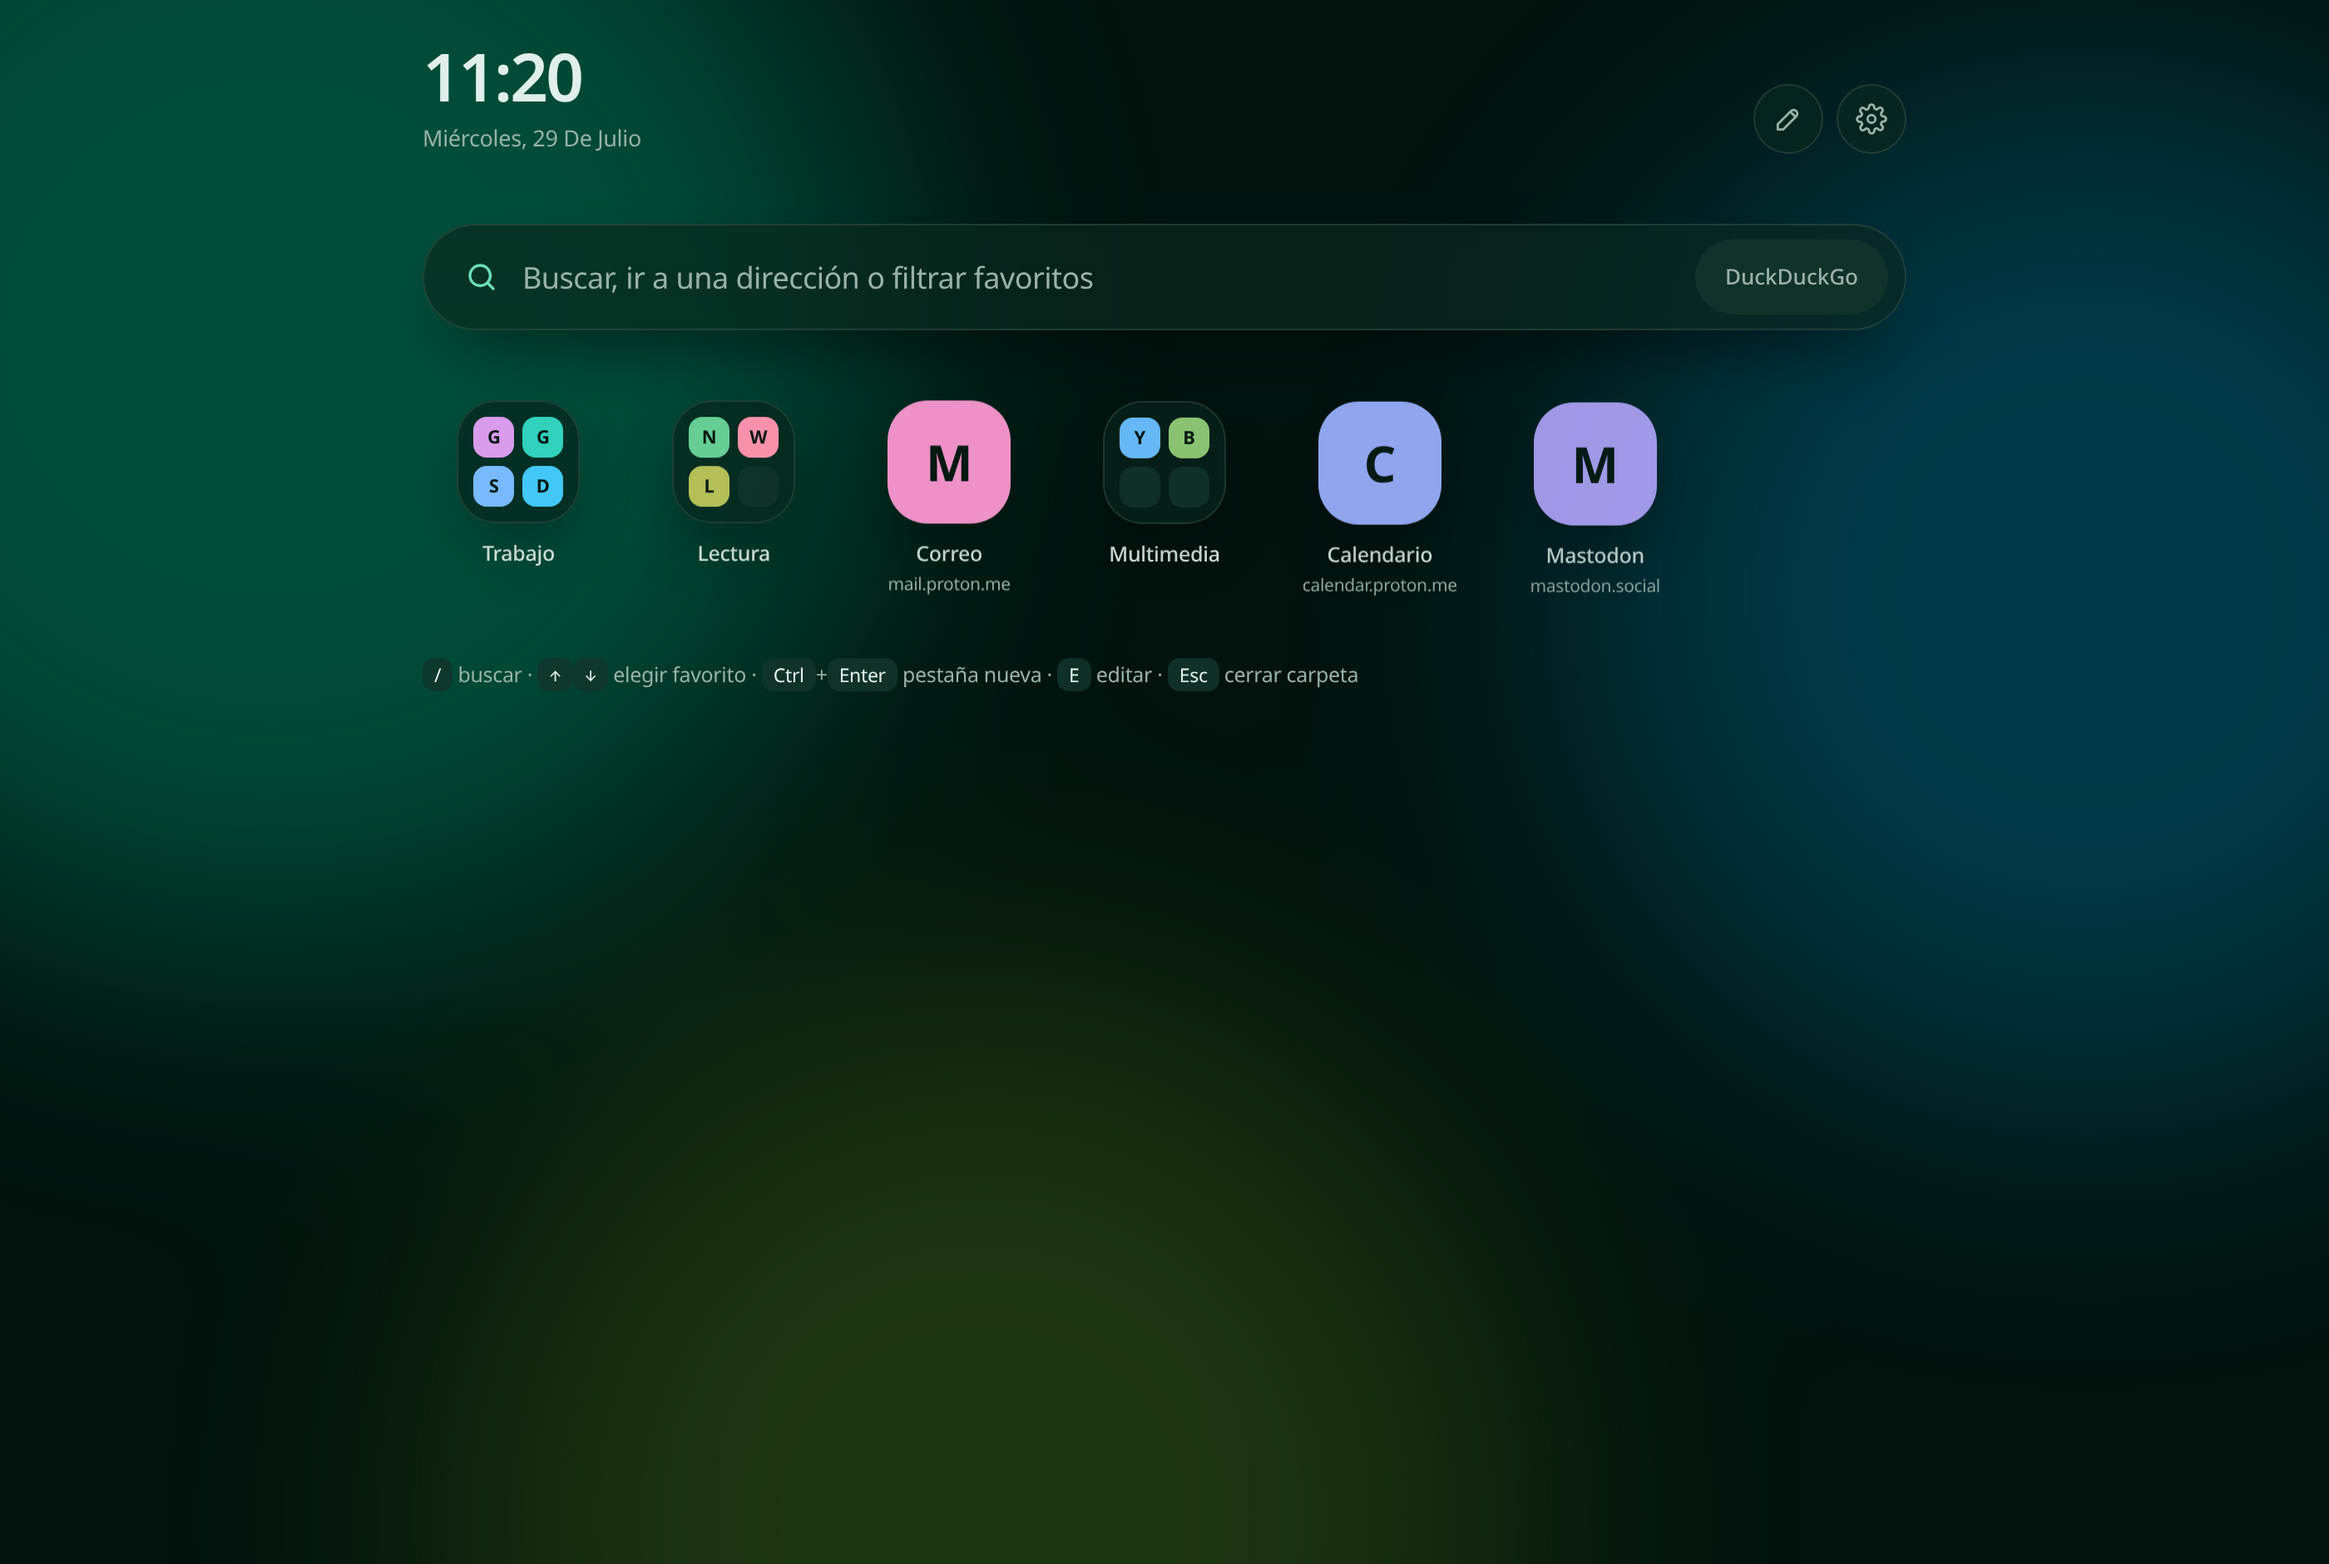
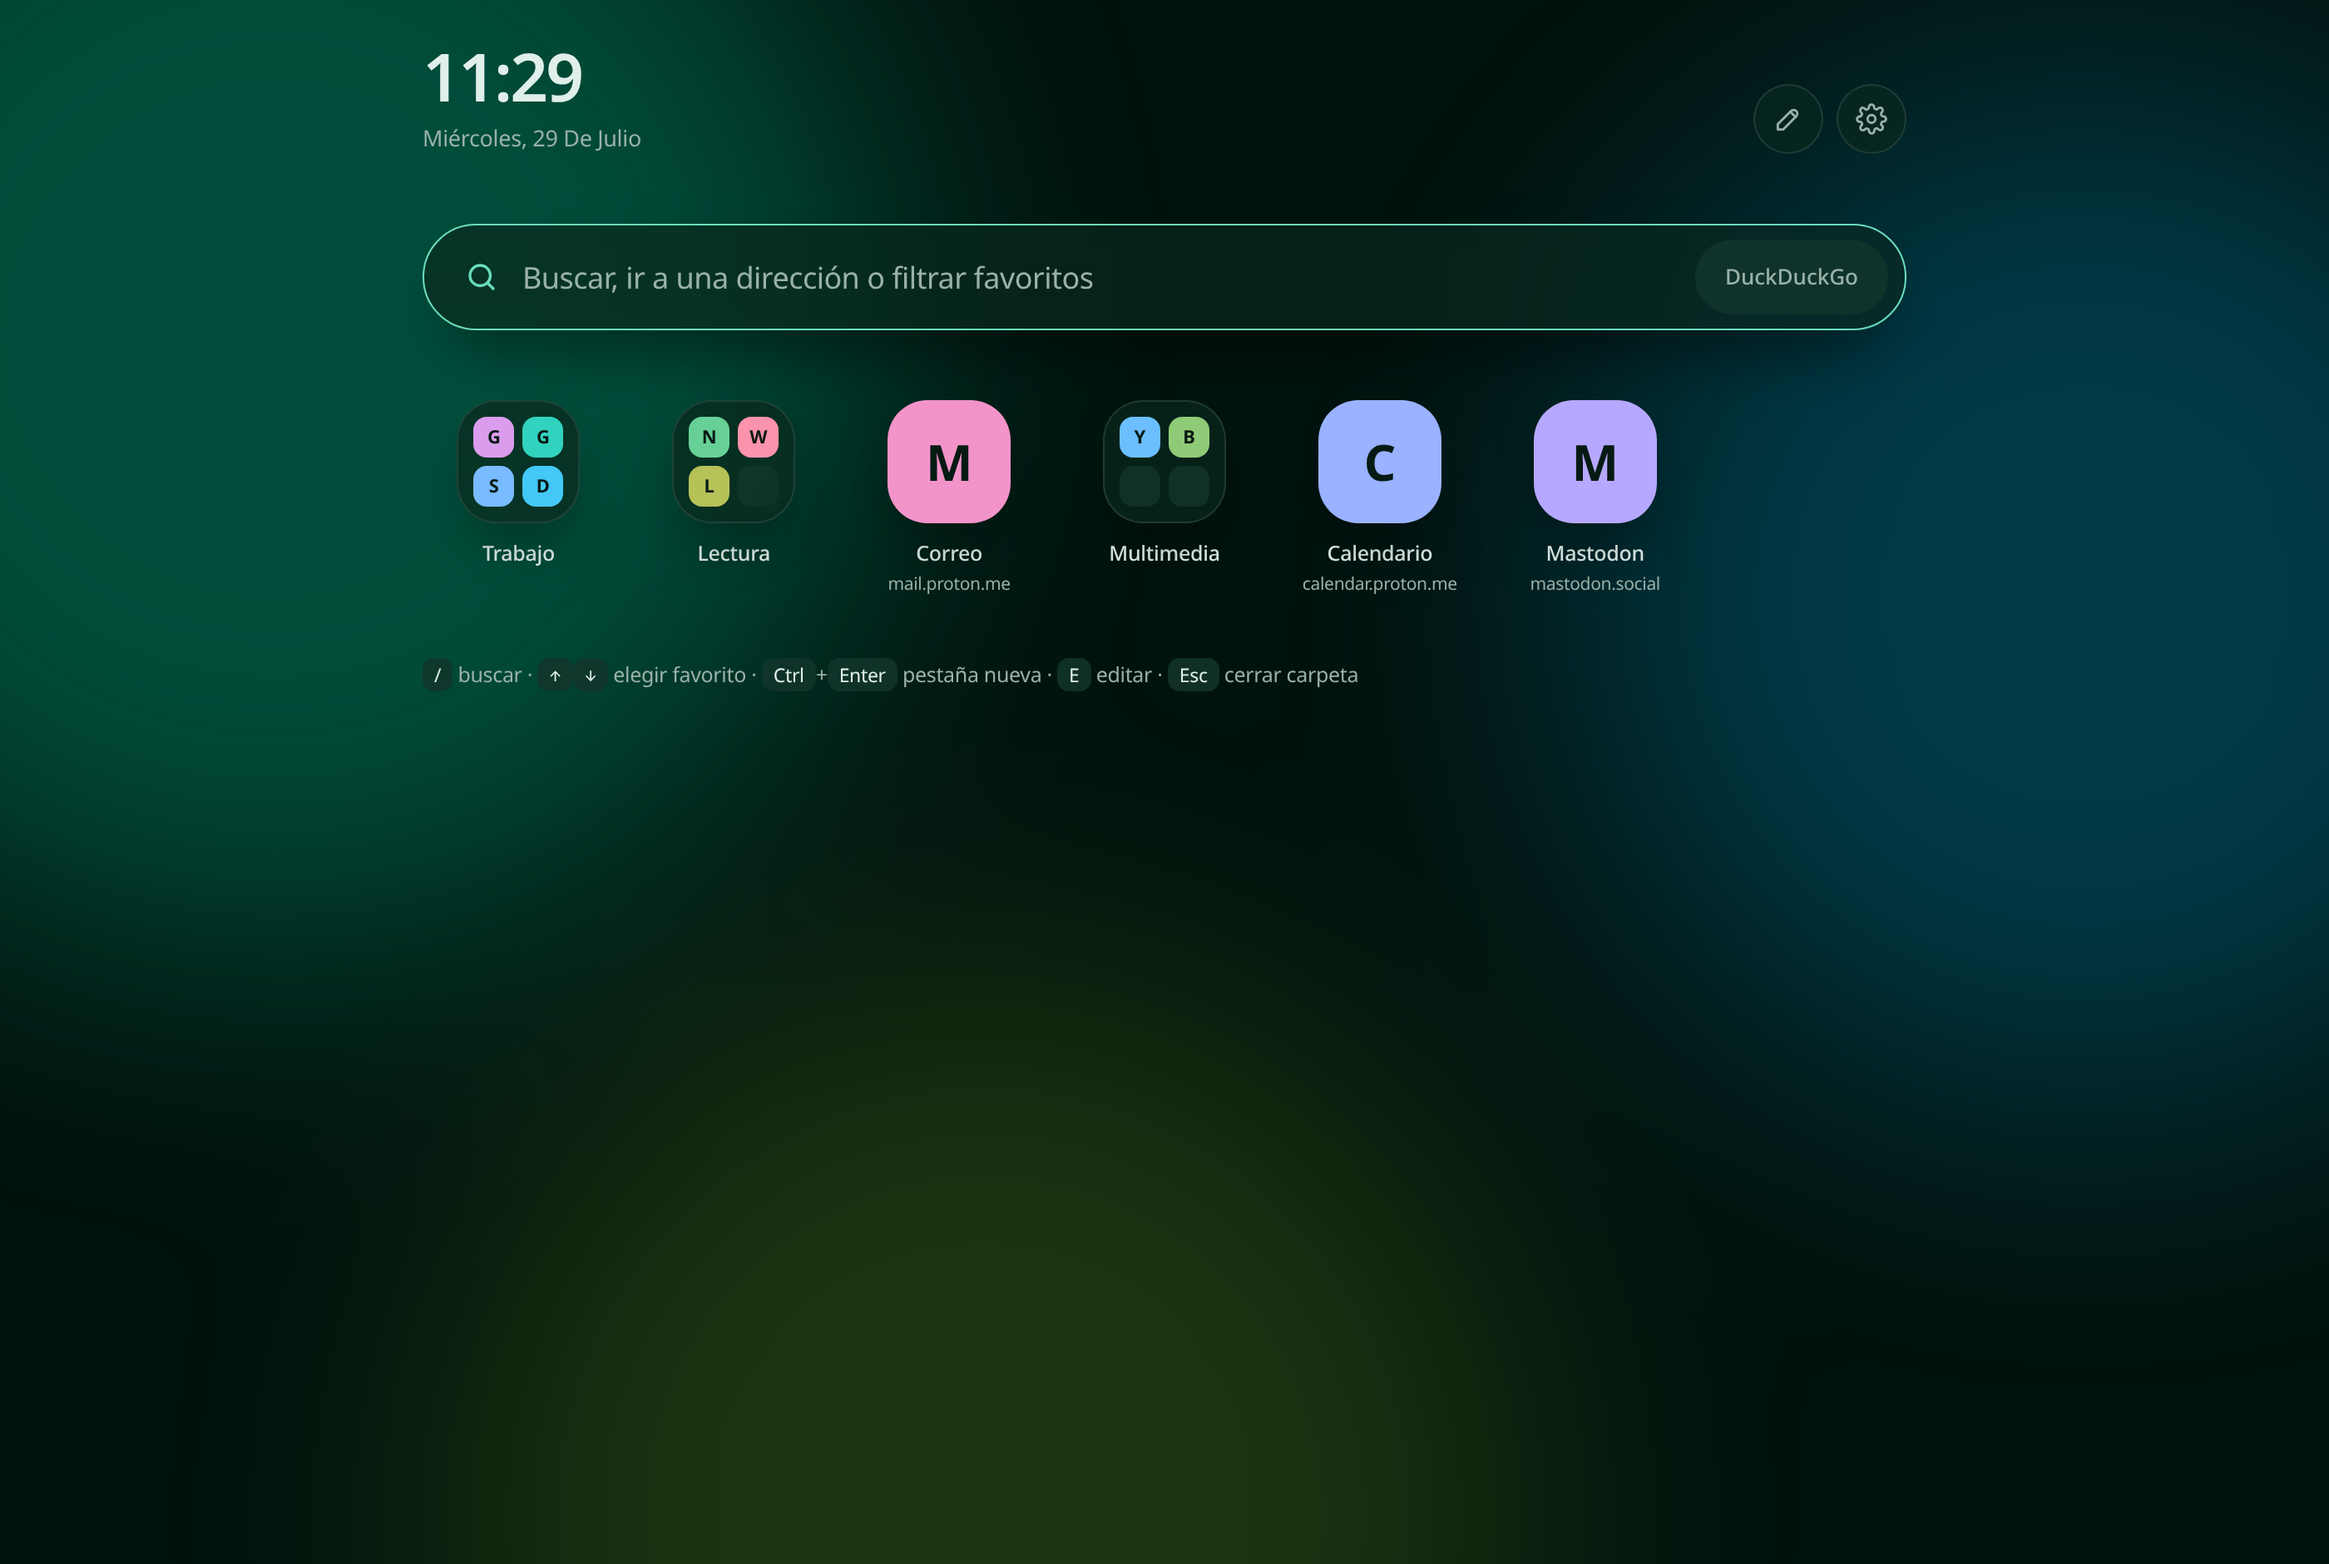
Corrige el modo claro de Fluent, que heredaba los valores del oscuro

Changed region(s): [[0.6525, 0.2468, 0.7146, 0.4011], [0.5593, 0.3702, 0.5904, 0.4011], [0.2175, 0.0309, 0.2486, 0.0617]]

diff --git a/index.html b/index.html
@@ -772,130 +772,153 @@
   html[data-style="minimo"] label input[type="text"],
   html[data-style="minimo"] label select { border-radius: 3px; background: transparent; }
 
-  /* ---------- FLUENT: Windows 11. Capas opacas, bordes asimétricos y acento ----------
-     Claves de Fluent Design: fondo Mica muy desaturado, tarjetas sólidas apiladas,
-     radios de 8 px en superficies y 4 px en controles, y el borde inferior más oscuro
-     que el resto (en oscuro, el superior más claro), que es lo que da el relieve sutil
-     de los controles de WinUI. El azul de Windows (#0078D4) sale del tono 258. */
+  /* ---------- FLUENT: el menú Inicio de Windows 11 ----------
+     Lo que hace reconocible a Win11 no son los detalles finos, sino tres cosas muy visibles:
+     el panel flotante acrílico con esquinas redondeadas y sombra marcada, el buscador en
+     forma de píldora arriba, y la rejilla de iconos con degradado suave. El azul de
+     Windows (#0078D4) sale del tono 258. */
   html[data-style="fluent"] {
     --font: "Segoe UI Variable Text", "Segoe UI", "Selawik", "Inter",
             "Noto Sans", system-ui, sans-serif;
     --font-display: "Segoe UI Variable Display", var(--font);
-    --tile: 64px;
-    --r-face: 8px; --r-mini: 3px; --r-app: 8px; --r-panel: 8px;
-    --field-h: 40px; --r-field: 8px; --r-chip: 4px;
-    --blur-1: 30px; --blur-2: 40px; --blur-3: 60px; --sat: 118%;
-    --mesh-op: 0.16;
-    --grid-gap: 18px 8px;
+    --tile: 62px;
+    --r-face: 10px; --r-mini: 3px; --r-app: 10px; --r-panel: 12px;
+    --field-h: 42px; --r-field: 999px; --r-chip: 999px;
+    --blur-1: 40px; --blur-2: 50px; --blur-3: 60px; --sat: 160%;
+    --mesh-op: 0.55;
+    --grid-gap: 16px 6px;
     --label-fs: 12px; --label-tt: none; --label-ls: 0;
     --glass: 0 0 0 0 transparent;
 
-    --bg:        #202020;
-    --bg-2:      #2B2B2B;
-    --surface:   #2D2D2D;
-    --surface-2: #333333;
-    --outline:   rgba(255, 255, 255, 0.075);
-    --borde-alto: rgba(255, 255, 255, 0.093);
+    --bg:        #1C1C1C;
+    --bg-2:      #2C2C2C;
+    --surface:   rgba(44, 44, 44, 0.78);
+    --surface-2: rgba(58, 58, 58, 0.86);
+    --outline:   rgba(255, 255, 255, 0.09);
     --text:      #FFFFFF;
-    --muted:     rgba(255, 255, 255, 0.606);
+    --muted:     rgba(255, 255, 255, 0.62);
     --primary:   oklch(0.78 0.125 var(--hue));
     --on-primary: #1B1B1B;
-    --shadow:    0 8px 16px rgba(0, 0, 0, 0.28);
-    --scrim:     rgba(18, 18, 18, 0.55);
-    --capa:      rgba(255, 255, 255, 0.061);
-    --capa-2:    rgba(255, 255, 255, 0.084);
+    --shadow:    0 16px 40px rgba(0, 0, 0, 0.5);
+    --scrim:     rgba(16, 16, 16, 0.5);
+    --capa:      rgba(255, 255, 255, 0.07);
+    --capa-2:    rgba(255, 255, 255, 0.11);
   }
   html[data-style="fluent"][data-mode="light"] {
+    /* Mica en claro es casi neutro: gris muy claro con un tinte apenas perceptible.
+       Heredar el 0.55 del modo oscuro lavaba la página de pasteles. */
+    --mesh-op: 0.17;
+    --sat: 122%;
     --bg:        #F3F3F3;
-    --bg-2:      #FBFBFB;
-    --surface:   #FBFBFB;
-    --surface-2: #FFFFFF;
-    --outline:   rgba(0, 0, 0, 0.058);
-    --borde-alto: rgba(0, 0, 0, 0.092);
+    --bg-2:      #FFFFFF;
+    --surface:   rgba(251, 251, 251, 0.90);
+    --surface-2: rgba(255, 255, 255, 0.95);
+    --outline:   rgba(0, 0, 0, 0.07);
     --text:      #1B1B1B;
     --muted:     #5D5D5D;
     --primary:   oklch(0.55 0.155 var(--hue));
     --on-primary: #FFFFFF;
-    --shadow:    0 8px 16px rgba(0, 0, 0, 0.10);
-    --scrim:     rgba(243, 243, 243, 0.6);
-    --capa:      rgba(0, 0, 0, 0.037);
-    --capa-2:    rgba(0, 0, 0, 0.060);
+    --shadow:    0 16px 36px rgba(0, 0, 0, 0.16);
+    --scrim:     rgba(233, 235, 238, 0.55);
+    --capa:      rgba(0, 0, 0, 0.045);
+    --capa-2:    rgba(0, 0, 0, 0.075);
   }
 
-  /* Mica: el color del fondo apenas se intuye, muy desaturado */
-  html[data-style="fluent"] .blob { filter: saturate(22%) brightness(1.05); }
-  html[data-style="fluent"] .now .h { font-weight: 600; font-size: 36px; letter-spacing: -0.02em; }
+  /* el contenido entero flota como el menú Inicio: acrílico, redondeado y con sombra */
+  html[data-style="fluent"] .wrap {
+    max-width: 720px;
+    margin: 40px auto;
+    padding: 22px 26px 26px;
+    background: var(--surface);
+    -webkit-backdrop-filter: blur(var(--blur-3)) saturate(var(--sat));
+    backdrop-filter: blur(var(--blur-3)) saturate(var(--sat));
+    border: 1px solid var(--outline);
+    border-radius: 14px;
+    box-shadow: var(--shadow);
+  }
+  @media (max-width: 620px) {
+    html[data-style="fluent"] .wrap {
+      margin: 0; border-radius: 0; border: 0; box-shadow: none; background: transparent;
+      -webkit-backdrop-filter: none; backdrop-filter: none;
+    }
+  }
+  /* el fondo se ve de verdad detrás del acrílico */
+  html[data-style="fluent"] .blob { filter: saturate(85%); }
+  html[data-style="fluent"][data-mode="light"] .blob { filter: saturate(30%) brightness(1.12); }
+  html[data-style="fluent"] .now .h { font-weight: 600; font-size: 32px; letter-spacing: -0.022em; }
   html[data-style="fluent"] .now .d { font-size: 12px; letter-spacing: 0; }
 
-  /* TextBox de WinUI: capa sólida y filete inferior de acento al enfocar */
+  /* buscador en píldora, como el del menú Inicio */
   html[data-style="fluent"] .field {
-    background: var(--surface);
+    background: var(--bg-2);
     border: 1px solid var(--outline);
-    border-bottom: 1px solid var(--borde-alto);
     box-shadow: none;
-    padding-left: 14px;
+    padding-left: 18px;
   }
   html[data-style="fluent"] .field:focus-within {
-    border-color: var(--outline);
-    border-bottom: 2px solid var(--primary);
+    border-color: var(--primary);
+    box-shadow: 0 0 0 1px var(--primary);
     transform: none;
   }
   html[data-style="fluent"] #q { font-size: 14.5px; }
 
-  /* botones: borde asimétrico, la firma visual de Fluent */
   html[data-style="fluent"] .icon-btn,
   html[data-style="fluent"] .engine-chip,
   html[data-style="fluent"] .mini-btn,
   html[data-style="fluent"] .dialog-actions button {
-    background: var(--surface);
+    background: var(--capa);
     border: 1px solid var(--outline);
-    border-bottom-color: var(--borde-alto);
     box-shadow: none;
   }
-  html[data-style="fluent"] .icon-btn { width: 36px; height: 36px; border-radius: 5px; }
-  html[data-style="fluent"] .icon-btn svg { width: 17px; height: 17px; }
+  html[data-style="fluent"] .icon-btn { width: 34px; height: 34px; border-radius: 6px; }
+  html[data-style="fluent"] .icon-btn svg { width: 16px; height: 16px; }
   html[data-style="fluent"] .icon-btn:hover,
   html[data-style="fluent"] .engine-chip:hover,
   html[data-style="fluent"] .mini-btn:hover,
   html[data-style="fluent"] .dialog-actions button:hover {
-    background: var(--surface-2); color: var(--text); transform: none;
+    background: var(--capa-2); color: var(--text); transform: none;
   }
-  html[data-style="fluent"] .icon-btn:active { transform: none; opacity: .72; }
+  html[data-style="fluent"] .icon-btn:active { transform: none; opacity: .7; }
   html[data-style="fluent"] .icon-btn.on,
   html[data-style="fluent"] .dialog-actions .primary {
     background: var(--primary); border-color: transparent; color: var(--on-primary);
   }
 
-  /* rejilla del menú Inicio: relleno suave de 4 px bajo icono y etiqueta */
-  html[data-style="fluent"] .tile {
-    padding: 8px 4px 6px;
-    border-radius: 4px;
-    transition: background .1s linear, transform .16s var(--ease);
-  }
+  /* rejilla de anclados: relleno de 5 px al pasar por encima */
+  html[data-style="fluent"] .tile { padding: 8px 4px 6px; border-radius: 5px;
+                                    transition: background .1s linear; }
   html[data-style="fluent"] .tile:hover { background: var(--capa); }
   html[data-style="fluent"] .tile:active { background: var(--capa-2); }
-  html[data-style="fluent"] .face { box-shadow: none; border: 0; }
-  html[data-style="fluent"] .face.folder {
-    background: var(--surface);
-    border: 1px solid var(--outline);
-    border-bottom-color: var(--borde-alto);
-    gap: 4px; padding: 7px;
-  }
-  html[data-style="fluent"] .tile:hover .face { transform: none; }
+  html[data-style="fluent"] .tile:hover .face,
   html[data-style="fluent"] .tile:active .face { transform: none; }
-  html[data-style="fluent"] .tile.drop-into .face { transform: scale(1.05); border-color: var(--primary); }
-  html[data-style="fluent"] .app { padding: 8px 4px; border-radius: 4px; }
+  html[data-style="fluent"] .face { box-shadow: 0 2px 5px rgba(0,0,0,.16); border: 0; }
+  html[data-style="fluent"] .face.folder {
+    background: var(--capa-2); border: 1px solid var(--outline); gap: 4px; padding: 7px;
+  }
+  html[data-style="fluent"] .tile.drop-into .face { transform: scale(1.06); }
+  html[data-style="fluent"] .app { padding: 8px 4px; border-radius: 5px; }
   html[data-style="fluent"] .app:hover { background: var(--capa); transform: none; }
-  html[data-style="fluent"] .app-icon { box-shadow: none; }
   html[data-style="fluent"] .tile-host { display: none; }
   html[data-style="fluent"] .more-badge { border-radius: 999px; }
 
-  /* selección con la barrita de acento a la izquierda, como en NavigationView */
-  html[data-style="fluent"] .hits {
-    border-radius: 8px; padding: 4px; box-shadow: var(--shadow);
-    border-color: var(--outline);
+  /* iconos con el degradado suave de los iconos Fluent */
+  html[data-style="fluent"] .face.single,
+  html[data-style="fluent"] .app-icon,
+  html[data-style="fluent"] .mini { position: relative; overflow: hidden; }
+  html[data-style="fluent"] .face.single::after,
+  html[data-style="fluent"] .app-icon::after,
+  html[data-style="fluent"] .mini::after {
+    content: ""; position: absolute; inset: 0; pointer-events: none; border-radius: inherit;
+    background: linear-gradient(142deg,
+      rgba(255, 255, 255, 0.36) 0%, rgba(255, 255, 255, 0.06) 52%, rgba(0, 0, 0, 0.12) 100%);
   }
-  html[data-style="fluent"] .hit { border-radius: 4px; position: relative; }
+  html[data-style="fluent"] .app-icon { box-shadow: 0 2px 6px rgba(0,0,0,.18); }
+
+  /* selección con la barrita de acento, como en NavigationView */
+  html[data-style="fluent"] .hits {
+    border-radius: 8px; padding: 4px; box-shadow: var(--shadow); border-color: var(--outline);
+  }
+  html[data-style="fluent"] .hit { border-radius: 5px; position: relative; }
   html[data-style="fluent"] .hit[aria-selected="true"] { background: var(--capa-2); color: var(--text); }
   html[data-style="fluent"] .hit[aria-selected="true"] .path { color: var(--muted); opacity: 1; }
   html[data-style="fluent"] .hit[aria-selected="true"]::before {
@@ -904,27 +927,20 @@
     border-radius: 2px; background: var(--primary);
   }
 
-  /* acrílico en el panel emergente */
-  html[data-style="fluent"] .panel {
-    border-radius: 8px;
-    border: 1px solid var(--outline);
-    background: var(--surface-2);
-  }
+  html[data-style="fluent"] .panel { border-radius: 12px; border: 1px solid var(--outline); }
   html[data-style="fluent"] .panel-head { border-bottom: 1px solid var(--outline); padding-bottom: 12px; }
-  html[data-style="fluent"] dialog { border-radius: 8px; background: var(--bg-2); }
+  html[data-style="fluent"] dialog { border-radius: 12px; background: var(--bg-2); }
   html[data-style="fluent"] .segmented {
-    background: var(--surface); border: 1px solid var(--outline); border-radius: 6px; padding: 3px;
+    background: var(--capa); border: 1px solid var(--outline); border-radius: 6px; padding: 3px;
   }
   html[data-style="fluent"] .segmented button { border-radius: 4px; }
   html[data-style="fluent"] .segmented button:hover[aria-pressed="false"] { background: var(--capa); }
   html[data-style="fluent"] label input[type="text"],
   html[data-style="fluent"] label select {
-    background: var(--surface); border-color: var(--outline);
-    border-bottom-color: var(--borde-alto); border-radius: 5px;
+    background: var(--bg-2); border-color: var(--outline); border-radius: 5px;
   }
   html[data-style="fluent"] .backup { border-radius: 5px; }
 
-  /* barras de desplazamiento finas de Windows 11 */
   html[data-style="fluent"] ::-webkit-scrollbar { width: 14px; height: 14px; }
   html[data-style="fluent"] ::-webkit-scrollbar-track { background: transparent; }
   html[data-style="fluent"] ::-webkit-scrollbar-thumb {
@@ -3072,7 +3088,7 @@
     if (!ev.target.closest(".console")) { current = []; paintHits(); }
   });
 
-  var VERSION = "1.9.0";
+  var VERSION = "1.11.0";
   document.getElementById("version").textContent =
     "Zaguán " + VERSION + " · " + (window.PointerEvent ? "arrastre por puntero" : "sin PointerEvent");
 
